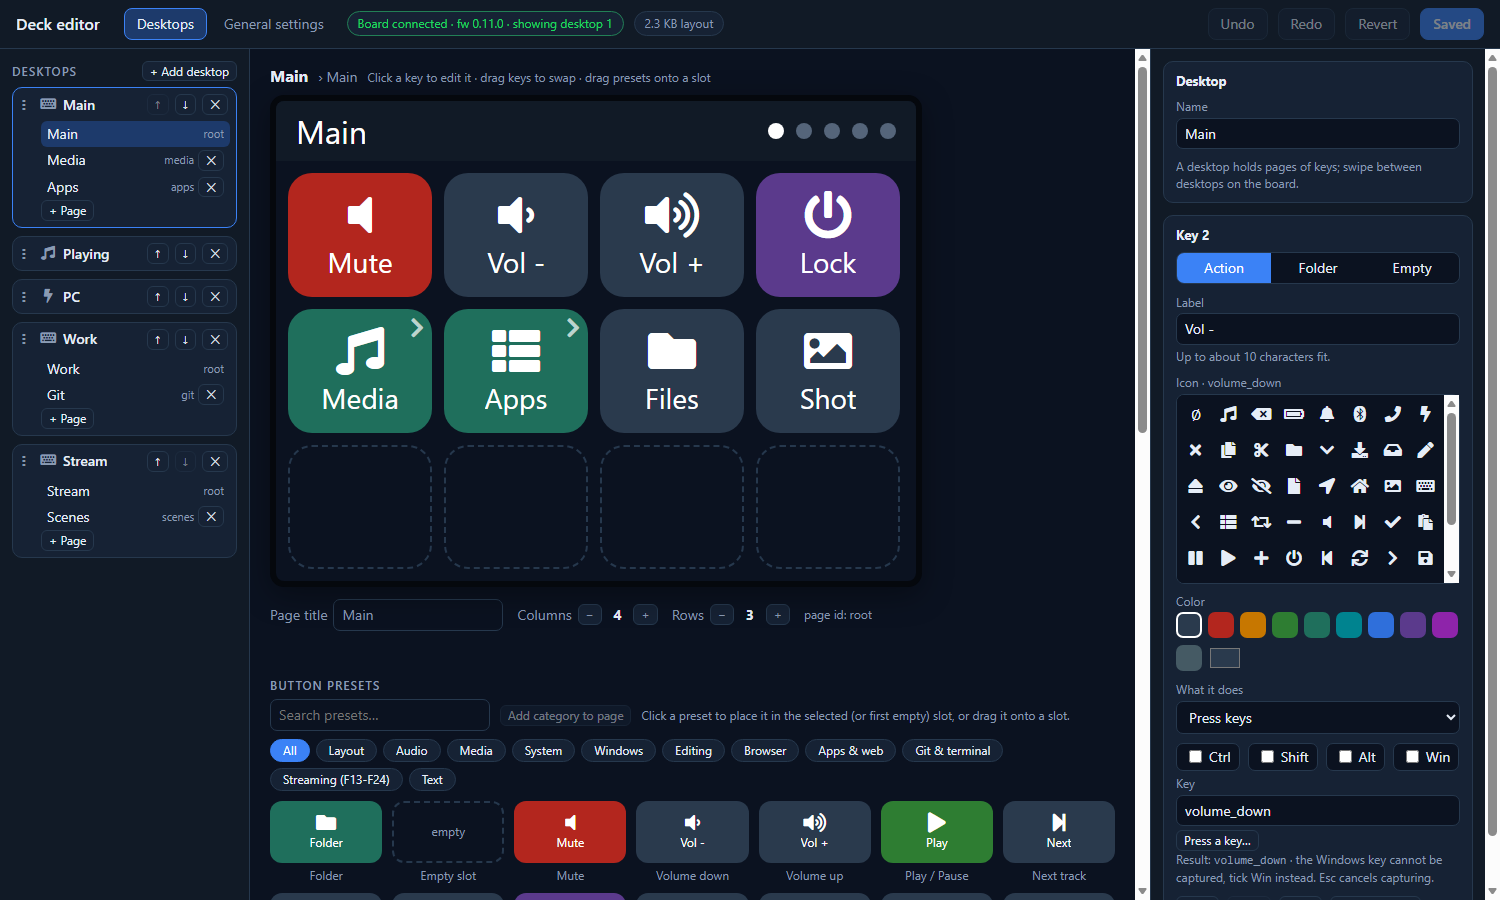
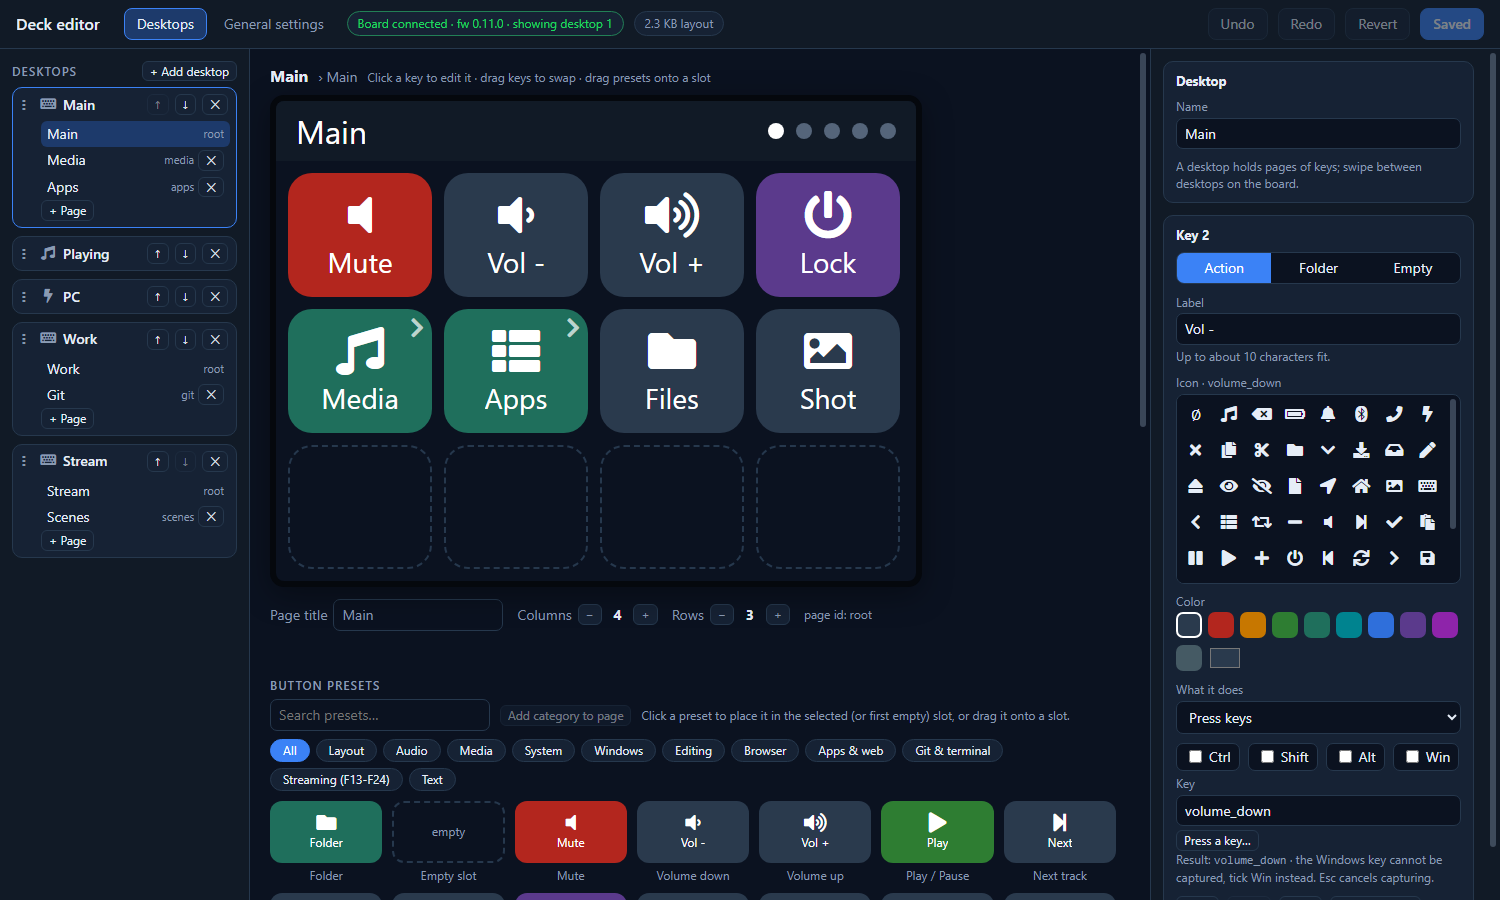
Editor: custom scrollbars (slim, rounded, theme colors); refresh the README screenshots

diff --git a/companion/streamdeck_companion/web/style.css b/companion/streamdeck_companion/web/style.css
@@ -10,6 +10,21 @@
     --muted: #5d6f86; --accent-soft: #d8e6ff; }
 }
 * { box-sizing: border-box; }
+
+/* scrollbars: a slim rounded thumb on a see-through track, in the theme's own colors (Chrome, Edge, Safari: the
+   ::-webkit-scrollbar rules; Firefox, which has no such rules: the two standard properties) */
+::-webkit-scrollbar { width: 14px; height: 14px; }
+::-webkit-scrollbar-track, ::-webkit-scrollbar-corner { background: transparent; }
+::-webkit-scrollbar-thumb {
+  background: color-mix(in srgb, var(--muted) 38%, transparent);
+  border: 4px solid transparent; background-clip: padding-box; border-radius: 999px; min-height: 36px; min-width: 36px;
+}
+::-webkit-scrollbar-thumb:hover { background: color-mix(in srgb, var(--muted) 70%, transparent); border: 4px solid transparent; background-clip: padding-box; }
+::-webkit-scrollbar-thumb:active { background: var(--accent); border: 4px solid transparent; background-clip: padding-box; }
+@supports not selector(::-webkit-scrollbar) {
+  * { scrollbar-width: thin; scrollbar-color: color-mix(in srgb, var(--muted) 45%, transparent) transparent; }
+}
+
 [hidden] { display: none !important; }
 html, body { margin: 0; height: 100%; }
 body { background: var(--bg); color: var(--text); font: 14px/1.4 "Segoe UI", system-ui, sans-serif; display: flex; flex-direction: column; }
